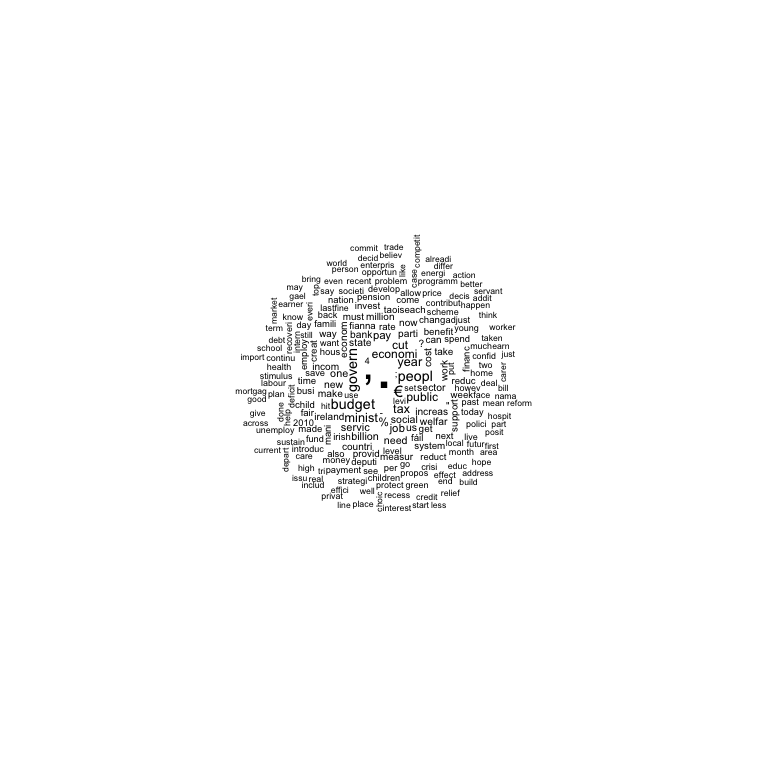
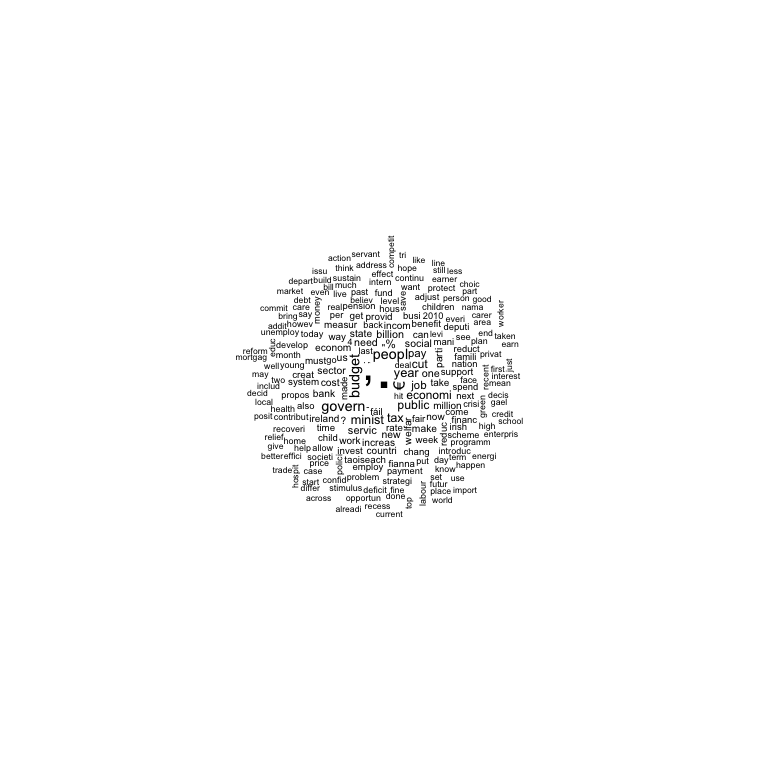
Update Getting Started document

Changed region(s): [[0.3125, 0.3125, 0.6875, 0.6875]]

diff --git a/1_getting_started/1_getting_started.md b/1_getting_started/1_getting_started.md
@@ -1,4 +1,5 @@
-#### Preliminaries: Installation
+Preliminaries: Installation
+---------------------------
 
 First, you need to have **quanteda** installed. You can do this from
 inside RStudio, from the Tools…Install Packages menu, or simply using
@@ -15,7 +16,8 @@ install.packages("quanteda")
 devtools::install_github("kbenoit/quantedaData")
 ```
 
-#### Test your setup
+Test your setup
+---------------
 
 Run the rest of this file to test your setup. You must have quanteda
 installed in order for this next step to succeed.
@@ -96,14 +98,16 @@ topfeatures(ie_dfm)
 Make a word cloud:
 
 ``` r
-textplot_wordcloud(ie_dfm, min.freq = 25, random.order = FALSE)
+dfm_remove(ie_dfm, "\\p{Z}", valuetype = "regex") %>%
+  textplot_wordcloud(min.freq = 25, random.order = FALSE)
 ```
 
 ![](1_getting_started_files/figure-markdown_github/unnamed-chunk-7-1.png)
 
 If you got this far, congratulations!
 
-### Three ways to create a `corpus` object
+Three ways to create a `corpus` object
+--------------------------------------
 
 **quanteda can construct a `corpus` object** from several input sources:
 
@@ -121,7 +125,7 @@ If you got this far, congratulations!
         ##  1793-Washington    96    147         4
         ## 
         ## Source:  /Users/kbenoit/Dropbox (Personal)/GitHub/QTAUR-halfday/1_getting_started/* on x86_64 by kbenoit
-        ## Created: Wed Nov 15 09:02:14 2017
+        ## Created: Wed Nov 15 09:11:28 2017
         ## Notes:   Just G.W.
 
 2.  a `VCorpus` object from the **tm** package, and
@@ -165,7 +169,7 @@ If you got this far, congratulations!
         ##                        <NA> <NA>   <NA>      <NA>
         ## 
         ## Source:  Converted from tm Corpus 'crude'
-        ## Created: Wed Nov 15 09:02:14 2017
+        ## Created: Wed Nov 15 09:11:28 2017
         ## Notes:
 
 3.  a `readtext` object, created by `readtext::readtext()`.
@@ -175,7 +179,8 @@ If you got this far, congratulations!
     focuses on `textfile()`, which is designed to be a simple, powerful,
     and all-purpose method to load texts.
 
-### Using **readtext** to import texts
+Using **readtext** to import texts
+----------------------------------
 
 In the simplest case, we would like to load a set of texts in plain text
 files from a single directory. To do this, we use the `readtext()`
@@ -217,7 +222,7 @@ summary(inaug_corpus, 5)
     ##  text5   804   2381        45  1805-Jefferson.txt 1805  Jefferson
     ## 
     ## Source:  /Users/kbenoit/Dropbox (Personal)/GitHub/QTAUR-halfday/1_getting_started/* on x86_64 by kbenoit
-    ## Created: Wed Nov 15 09:02:16 2017
+    ## Created: Wed Nov 15 09:11:30 2017
     ## Notes:
 
 If the texts and document variables are stored separately, we can easily
@@ -253,7 +258,7 @@ summary(sotu_corpus, 5)
     ##    spoken SOTU  su1793.txt Independent
     ## 
     ## Source:  /Users/kbenoit/Dropbox (Personal)/GitHub/QTAUR-halfday/1_getting_started/* on x86_64 by kbenoit
-    ## Created: Wed Nov 15 09:02:18 2017
+    ## Created: Wed Nov 15 09:11:32 2017
     ## Notes:
 
 Another common case is that our texts are stored alongside the document
@@ -351,5 +356,5 @@ summary(mycorpus)
     ##  text9   346    723        27         UKIP.txt
     ## 
     ## Source:  /Users/kbenoit/Dropbox (Personal)/GitHub/QTAUR-halfday/1_getting_started/* on x86_64 by kbenoit
-    ## Created: Wed Nov 15 09:02:23 2017
+    ## Created: Wed Nov 15 09:11:37 2017
     ## Notes:
